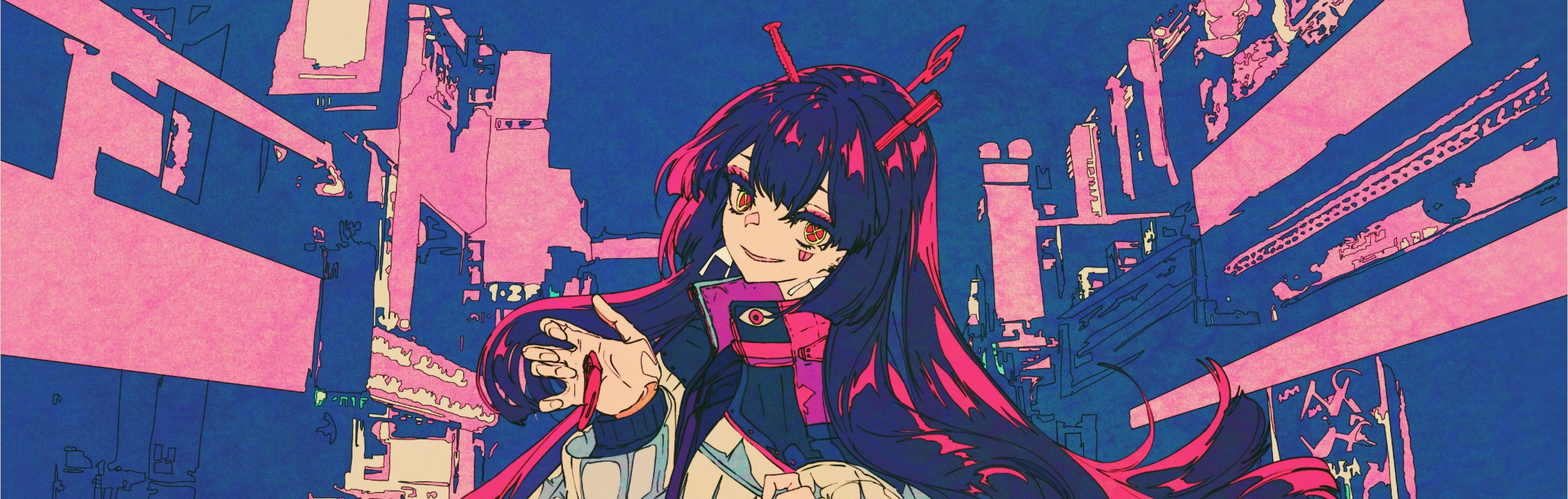
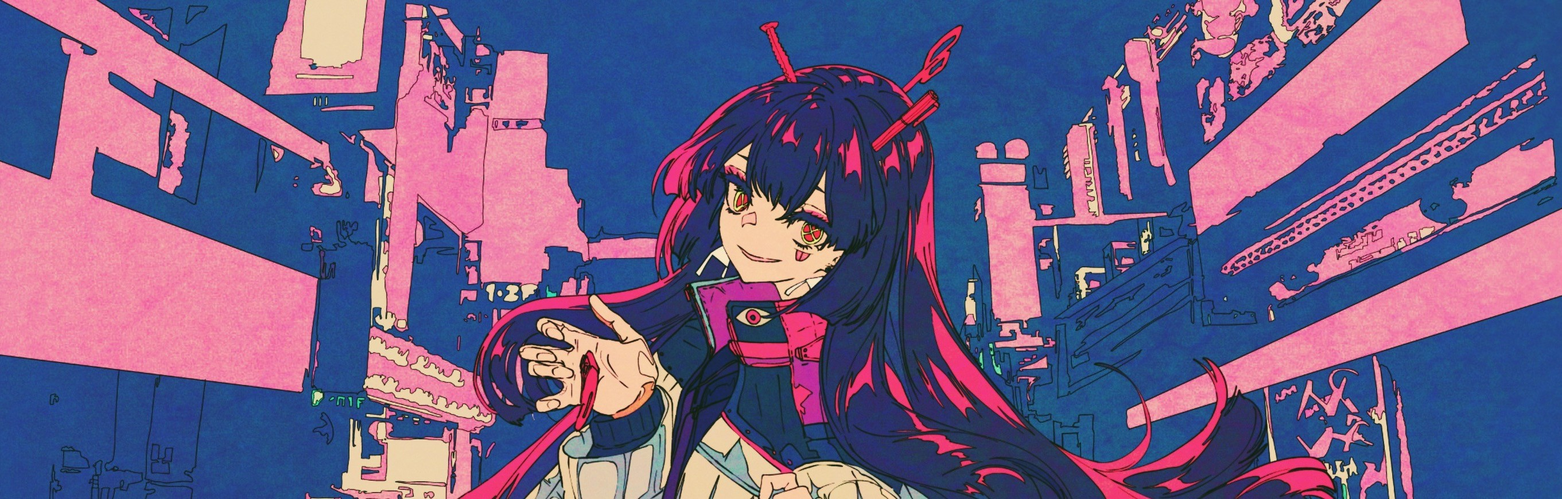
Fixed account hover in header

diff --git a/css/profile.css b/css/profile.css
@@ -11,12 +11,7 @@ body {
   padding: 20px;
   display: flex;
   align-items: center;
-
-  display: flex;
-  align-items: center;
-  padding: 10px;
   margin: 20px auto;
-
   background-image: url("../img/hero.jpg");
   background-size: cover;
   background-position: center;
@@ -37,8 +32,8 @@ body {
 }
 
 .pro-profile img {
-  height: 200px;
-  width: 160px;
+  max-height: 100%;
+  max-width: 100%;
 }
 
 .pro-username {
@@ -53,6 +48,7 @@ body {
   align-items: center;
   background-color: var(--card-background);
   padding: 10px 0;
+  flex-wrap: wrap;
 }
 
 .pro-nav ul {
@@ -61,6 +57,10 @@ body {
   padding: 0;
   display: flex;
   gap: 20px;
+}
+
+.pro-container h2 {
+  text-align: center;
 }
 
 .pro-nav a {
@@ -388,7 +388,8 @@ body {
   }
 
   .pro-nav ul {
-    flex-direction: column;
+    flex-wrap: wrap;
+    justify-content: center;
     text-align: center;
   }
 

diff --git a/css/index.css b/css/index.css
@@ -14,9 +14,9 @@ main {
 #hero {
   grid-area: hero;
   background-image: url(../img/hero.jpg);
-  border-radius: 2rem;
+  border-radius: 1rem;
   background-repeat: no-repeat;
-  background-size: contain;
+  background-size: cover;
   background-position: center;
   position: relative;
   height: 0;

diff --git a/css/style.css b/css/style.css
@@ -72,6 +72,7 @@ nav li {
 
 #account_icon:hover {
   transition: all 400ms;
+  color: var(--secondary);
 }
 
 nav a:hover {
